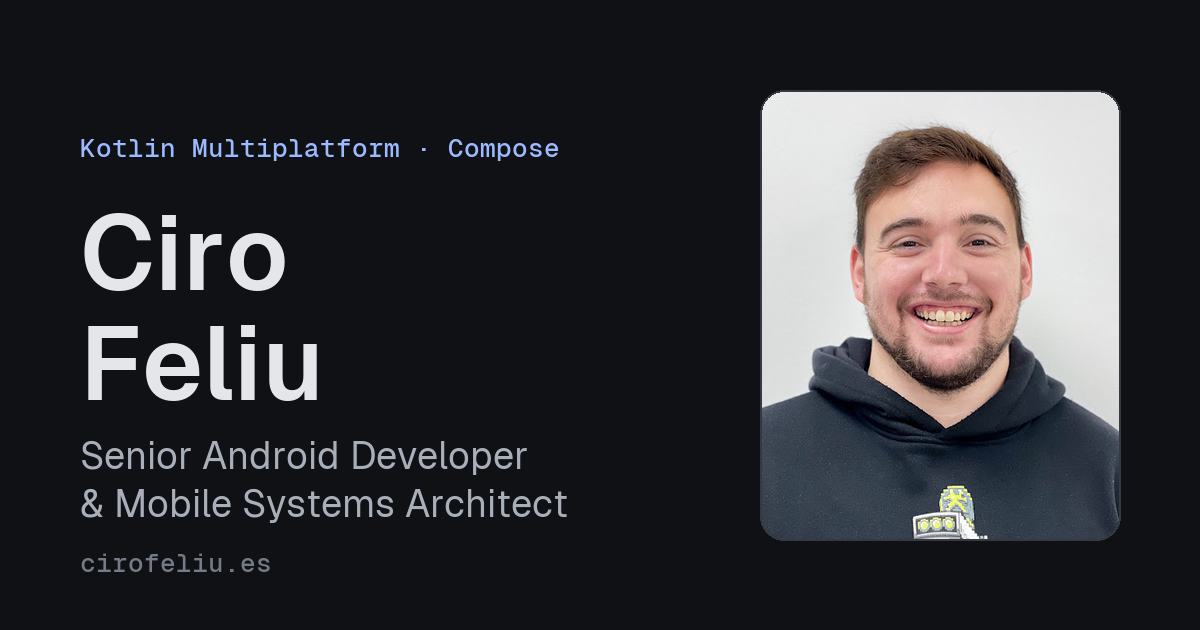
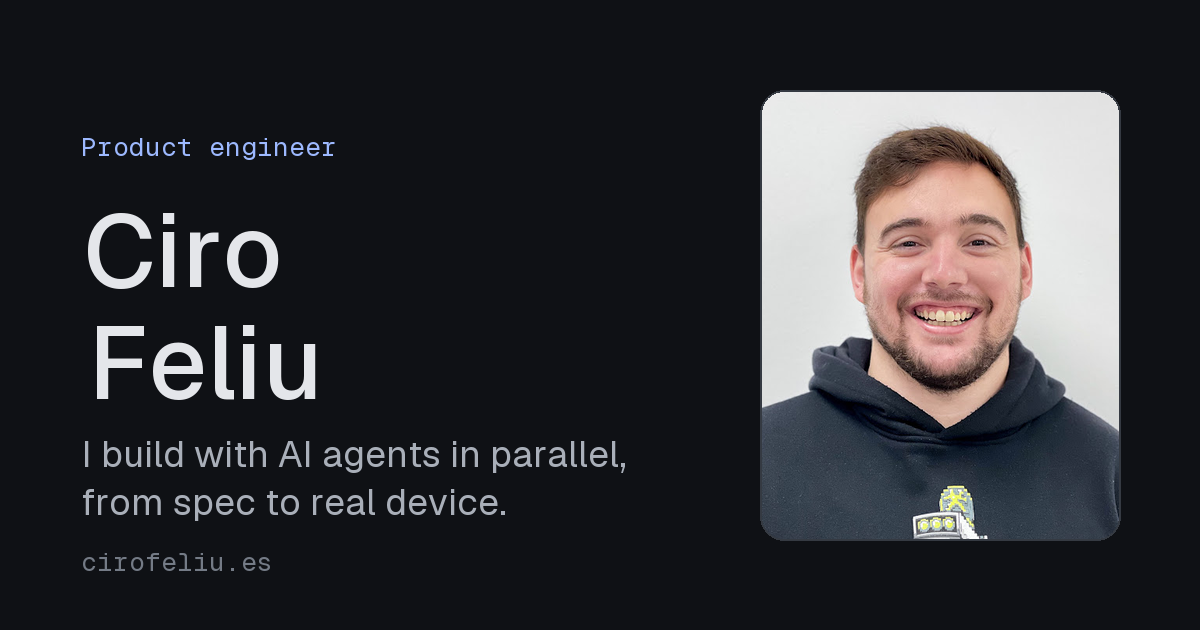
Update public positioning to product engineer building with AI agents in parallel

diff --git a/webApp/src/webMain/resources/index.html b/webApp/src/webMain/resources/index.html
@@ -5,20 +5,20 @@
     <meta name="viewport" content="width=device-width, initial-scale=1.0">
     <meta name="color-scheme" content="light dark">
 
-    <title>Ciro Feliu · Senior Android Developer &amp; Mobile Systems Architect</title>
+    <title>Ciro Feliu · Product engineer</title>
     <meta name="description"
-          content="Portfolio of Ciro Feliu, Senior Android Developer and Mobile Systems Architect working with Kotlin Multiplatform and Compose Multiplatform across Android, web, desktop and iOS.">
+          content="Ciro Feliu, product engineer. I build with AI agents in parallel, from spec to real device, and publish what I measure along the way.">
     <link rel="canonical" href="https://cirofeliu.es/">
 
     <meta property="og:type" content="website">
     <meta property="og:url" content="https://cirofeliu.es/">
-    <meta property="og:title" content="Ciro Feliu · Senior Android Developer &amp; Mobile Systems Architect">
+    <meta property="og:title" content="Ciro Feliu · Product engineer">
     <meta property="og:description"
-          content="Portfolio of Ciro Feliu, Senior Android Developer and Mobile Systems Architect working with Kotlin Multiplatform and Compose Multiplatform.">
+          content="I build with AI agents in parallel, from spec to real device.">
     <meta property="og:image" content="https://cirofeliu.es/og-image.png">
     <meta property="og:image:width" content="1200">
     <meta property="og:image:height" content="630">
-    <meta property="og:image:alt" content="Ciro Feliu, Senior Android Developer and Mobile Systems Architect">
+    <meta property="og:image:alt" content="Ciro Feliu, product engineer. I build with AI agents in parallel, from spec to real device.">
     <meta property="og:locale" content="en_US">
     <meta property="og:locale:alternate" content="es_ES">
     <meta name="twitter:card" content="summary_large_image">
@@ -28,7 +28,7 @@
             "@context": "https://schema.org",
             "@type": "Person",
             "name": "Ciro Feliu",
-            "jobTitle": "Senior Android Developer & Mobile Systems Architect",
+            "jobTitle": "Product engineer",
             "url": "https://cirofeliu.es/",
             "image": "https://cirofeliu.es/og-image.png",
             "sameAs": [
@@ -48,9 +48,11 @@
         <noscript>
             <main class="app-noscript">
                 <h1>Ciro Feliu</h1>
-                <p>Senior Android Developer &amp; Mobile Systems Architect</p>
-                <p>I design and build mobile systems that stay maintainable as they grow, with a focus on
-                    Android architecture, Kotlin Multiplatform, and developer tooling.</p>
+                <p>Product engineer. I build with AI agents in parallel, from spec to real device.</p>
+                <p>I've spent seven years building mobile apps, lately at a hardware company with devices and
+                    firmware next to me. Today I build with AI agents in parallel: specs before code, tests
+                    alongside it and one worktree per change, all run with ShogunAi, a tool I built for exactly
+                    that. On my blog I publish what I measure along the way.</p>
                 <ul>
                     <li><a href="mailto:ricardociro97@gmail.com">ricardociro97@gmail.com</a></li>
                     <li><a href="https://www.linkedin.com/in/ricardo-ciro-a43594190/">LinkedIn</a></li>

diff --git a/shared/src/commonMain/kotlin/app/luxion/nexus/navigation/sections/HeroAboutSection.kt b/shared/src/commonMain/kotlin/app/luxion/nexus/navigation/sections/HeroAboutSection.kt
@@ -61,22 +61,21 @@ object HeroAboutSection {
     internal val content = mapOf(
         Language.English to HeroAboutContent(
             name = "Ciro Feliu",
-            role = "Senior Developer & Mobile Systems Architect",
-            intro = "I design and build mobile systems that stay maintainable as they grow, " +
-                "from Android architecture to Kotlin Multiplatform.",
-            bio = "I design and build mobile systems that stay maintainable as they " +
-                "grow, with a focus on Android architecture, Kotlin Multiplatform, and the tooling " +
-                "that keeps a codebase easy to work in years after it ships.",
+            role = "Product engineer",
+            intro = "I build with AI agents in parallel, from spec to real device.",
+            bio = "I've spent seven years building mobile apps, lately at a hardware company with devices " +
+                "and firmware next to me. Today I build with AI agents in parallel: specs before code, " +
+                "tests alongside it and one worktree per change, all run with ShogunAi, a tool I built " +
+                "for exactly that. On my blog I publish what I measure along the way.",
         ),
         Language.Spanish to HeroAboutContent(
             name = "Ciro Feliu",
-            role = "Desarrollador Senior y Arquitecto de Sistemas Móviles",
-            intro = "Diseño y construyo sistemas móviles que siguen siendo fáciles de mantener al crecer, " +
-                "de la arquitectura Android a Kotlin Multiplatform.",
-            bio = "Diseño y construyo sistemas móviles que se mantienen fáciles de mantener a " +
-                "medida que crecen, centrado en arquitectura Android, Kotlin Multiplatform y las " +
-                "herramientas que hacen que un código siga siendo cómodo de tocar años después de " +
-                "publicarse.",
+            role = "Ingeniero de producto",
+            intro = "Desarrollo con agentes de IA en paralelo, de la spec al dispositivo real.",
+            bio = "Llevo siete años construyendo apps móviles, los últimos en una empresa de hardware, con " +
+                "dispositivos y firmware al lado. Hoy desarrollo con agentes de IA en paralelo: specs antes " +
+                "que código, tests a la par y un worktree por cambio, todo operado con ShogunAi, una " +
+                "herramienta que he construido para eso. En el blog publico lo que mido por el camino.",
         ),
     )
 

diff --git a/shared/src/commonTest/kotlin/app/luxion/nexus/navigation/sections/PositioningCopyTest.kt b/shared/src/commonTest/kotlin/app/luxion/nexus/navigation/sections/PositioningCopyTest.kt
@@ -1,0 +1,55 @@
+package app.luxion.nexus.navigation.sections
+
+import app.luxion.nexus.documentTitle
+import app.luxion.nexus.i18n.Language
+import kotlin.test.Test
+import kotlin.test.assertEquals
+import kotlin.test.assertNotEquals
+import kotlin.test.assertTrue
+
+class PositioningCopyTest {
+
+    private val retiredTitles = listOf("Architect", "Arquitecto", "Senior Developer", "Desarrollador Senior")
+
+    private val freelance = entries.single { it.company == "Freelance" }
+
+    @Test
+    fun heroStatesTheHeadlineInEnglish() {
+        val english = HeroAboutSection.content.getValue(Language.English)
+        assertEquals("Product engineer", english.role)
+        assertEquals("I build with AI agents in parallel, from spec to real device.", english.intro)
+    }
+
+    @Test
+    fun heroStatesTheHeadlineInSpanish() {
+        val spanish = HeroAboutSection.content.getValue(Language.Spanish)
+        assertEquals("Ingeniero de producto", spanish.role)
+        assertEquals("Desarrollo con agentes de IA en paralelo, de la spec al dispositivo real.", spanish.intro)
+    }
+
+    @Test
+    fun documentTitleUsesTheProductEngineerTitle() {
+        assertEquals("Ciro Feliu · Product engineer", documentTitle(Language.English))
+        assertEquals("Ciro Feliu · Ingeniero de producto", documentTitle(Language.Spanish))
+    }
+
+    @Test
+    fun freelanceRoleStaysInEnglishWithTranslatedDescriptions() {
+        val english = freelance.content.getValue(Language.English)
+        val spanish = freelance.content.getValue(Language.Spanish)
+        assertEquals("Contract engineer for AI-first product teams", english.role)
+        assertEquals(english.role, spanish.role)
+        assertNotEquals(english.description, spanish.description)
+    }
+
+    @Test
+    fun noRetiredTitleRemainsInHeroExperienceOrDocumentTitle() {
+        val strings = Language.entries.flatMap { language ->
+            val hero = HeroAboutSection.content.getValue(language)
+            listOf(hero.role, hero.intro, hero.bio, documentTitle(language)) +
+                entries.flatMap { entry -> entry.content.getValue(language).let { listOf(it.role, it.description) } }
+        }
+        val offending = strings.filter { text -> retiredTitles.any { it in text } }
+        assertTrue(offending.isEmpty(), "Retired titles still present: $offending")
+    }
+}

diff --git a/shared/src/commonMain/kotlin/app/luxion/nexus/navigation/sections/ExperienceSection.kt b/shared/src/commonMain/kotlin/app/luxion/nexus/navigation/sections/ExperienceSection.kt
@@ -66,6 +66,8 @@ internal data class ExperienceEntry(
     fun dateRange(language: Language): String = formatDateRange(start, end, language)
 }
 
+private const val FREELANCE_ROLE = "Contract engineer for AI-first product teams"
+
 internal val entries = listOf(
     ExperienceEntry(
         content = mapOf(
@@ -84,14 +86,17 @@ internal val entries = listOf(
     ExperienceEntry(
         content = mapOf(
             Language.English to ExperienceContent(
-                role = "Mobile Systems Architect",
-                description = "I deliver mobile projects for external clients on a freelance basis, " +
-                    "alongside my full-time role.",
+                role = FREELANCE_ROLE,
+                description = "I join product teams that build with AI agents and deliver features end to " +
+                    "end: spec, implementation verified with tests, and deployment. I prefer long-term " +
+                    "relationships with one or two clients over many small projects.",
             ),
             Language.Spanish to ExperienceContent(
-                role = "Arquitecto de Sistemas Móviles",
-                description = "Desarrollo proyectos móviles para clientes externos como freelance, " +
-                    "compaginándolo con mi empleo a tiempo completo.",
+                role = FREELANCE_ROLE,
+                description = "Me integro en equipos de producto que trabajan con agentes de IA y entrego " +
+                    "funcionalidad de principio a fin: spec, implementación verificada con tests y " +
+                    "despliegue. Busco relaciones largas con uno o dos clientes antes que muchos proyectos " +
+                    "pequeños.",
             ),
         ),
         company = "Freelance",

diff --git a/blogGenerator/src/main/kotlin/app/luxion/nexus/blog/BlogPages.kt b/blogGenerator/src/main/kotlin/app/luxion/nexus/blog/BlogPages.kt
@@ -2,7 +2,7 @@ package app.luxion.nexus.blog
 
 const val BLOG_TITLE = "Blog · Ciro Feliu"
 const val BLOG_DESCRIPTION =
-    "Writing by Ciro Feliu on Android, Kotlin Multiplatform, mobile architecture and developer tooling."
+    "Writing by Ciro Feliu on building with AI agents in parallel, from spec to real device."
 
 private const val AUTHOR = "Ciro Feliu"
 

diff --git a/AGENTS.md b/AGENTS.md
@@ -4,7 +4,7 @@ Style and process guidelines for AI agents working in this repository. **This is
 
 ## Project
 
-Nexus is Ciro Feliu's personal portfolio (Senior Android Developer / Mobile Systems Architect), built as a Kotlin Multiplatform + Compose Multiplatform SPA (package `app.luxion.nexus`). All four targets are in scope for v1 — `:webApp` (Kotlin/Wasm only for v1; a JS fallback for browsers without WasmGC is deferred to a later change), `:androidApp`, `:iosApp`, and `:desktopApp` — sharing UI/content/logic from `:shared` so the portfolio behaves consistently everywhere. Deployment is self-hosted on Ciro's own server under `cirofeliu.es` (not GitHub Pages): every push to `master` runs `.github/workflows/deploy.yml`, which tests, builds the Wasm distribution, rsyncs it to the server over a deploy-only SSH key restricted with `rrsync`, purges the Cloudflare zone's cache with a purge-only API token and checks that the live `webApp.js` and its `.wasm` files load. Only content-hashed files (the `.wasm` binaries) are cached long; everything else is served `no-cache`, so a deploy never leaves a stale `webApp.js` pointing at deleted binaries. The server side is Caddy in Docker behind a Cloudflare-proxied zone with an Origin Certificate (Full strict), and UFW only lets Cloudflare's IP ranges reach ports 80/443. The design rationale lives in the archived `automate-webapp-deployment` change; server-side operational details live in Ciro's private server docs, not in this repo.
+Nexus is Ciro Feliu's personal portfolio (product engineer building with AI agents in parallel, from spec to real device), built as a Kotlin Multiplatform + Compose Multiplatform SPA (package `app.luxion.nexus`). All four targets are in scope for v1 — `:webApp` (Kotlin/Wasm only for v1; a JS fallback for browsers without WasmGC is deferred to a later change), `:androidApp`, `:iosApp`, and `:desktopApp` — sharing UI/content/logic from `:shared` so the portfolio behaves consistently everywhere. Deployment is self-hosted on Ciro's own server under `cirofeliu.es` (not GitHub Pages): every push to `master` runs `.github/workflows/deploy.yml`, which tests, builds the Wasm distribution, rsyncs it to the server over a deploy-only SSH key restricted with `rrsync`, purges the Cloudflare zone's cache with a purge-only API token and checks that the live `webApp.js` and its `.wasm` files load. Only content-hashed files (the `.wasm` binaries) are cached long; everything else is served `no-cache`, so a deploy never leaves a stale `webApp.js` pointing at deleted binaries. The server side is Caddy in Docker behind a Cloudflare-proxied zone with an Origin Certificate (Full strict), and UFW only lets Cloudflare's IP ranges reach ports 80/443. The design rationale lives in the archived `automate-webapp-deployment` change; server-side operational details live in Ciro's private server docs, not in this repo.
 
 `:webApp` is the priority target within v1 — it's the primary deliverable (what recruiters/visitors see); `:androidApp`, `:iosApp`, and `:desktopApp` exist to demonstrate multiplatform reach. When work isn't otherwise scoped, prioritize `:webApp` + `:shared`. Design tone is clean/technical/structured/modern.
 

diff --git a/openspec/specs/experience-section/spec.md b/openspec/specs/experience-section/spec.md
@@ -2,7 +2,9 @@
 
 ## Purpose
 Give a visitor a chronological view of Ciro's career progression: a most-recent-first timeline of roles, each with company, title, date range, and a short description. Content is bilingual (English/Spanish), sourced from the shared `Language`-keyed content model.
+
 ## Requirements
+
 ### Requirement: Experience is shown as a chronological timeline
 The Experience/Timeline section SHALL render Ciro's work history as a vertical timeline, ordered most-recent-first, with each entry showing company, role title, and date range.
 
@@ -11,19 +13,23 @@ The Experience/Timeline section SHALL render Ciro's work history as a vertical t
 - **THEN** each role entry is visible with company, title, and date range, in most-recent-first order
 
 ### Requirement: Each entry includes a short description
-Each timeline entry SHALL include a short (1-2 line) description of the role.
+Each timeline entry SHALL include a short description of the role of at most two sentences.
 
 #### Scenario: Entry description is concise
 - **WHEN** a timeline entry is rendered
-- **THEN** its description does not exceed roughly 2 lines of themed body text
+- **THEN** its description has at most two sentences and does not exceed roughly 4 lines of themed body text on a 1280px-wide layout
 
 ### Requirement: Experience content is available in English and Spanish
-The Experience/Timeline section SHALL render each entry's role title and description in the active language (English or Spanish), sourced from the shared `Language`-keyed content, with no hardcoded single-language text.
+The Experience/Timeline section SHALL render each entry's role title and description in the active language (English or Spanish), sourced from the shared `Language`-keyed content, with no hardcoded single-language text. A role title MAY be the same English text in both languages when it is an English job title on purpose; its description SHALL still be translated.
 
 #### Scenario: Active language is Spanish
 - **WHEN** the active language is Spanish
-- **THEN** each timeline entry's role title and description render in Spanish
+- **THEN** each timeline entry's role title and description render in Spanish, except role titles deliberately kept in English
 
 #### Scenario: Active language is English
 - **WHEN** the active language is English
 - **THEN** each timeline entry's role title and description render in English
+
+#### Scenario: Freelance title kept in English
+- **WHEN** the Freelance entry renders in Spanish
+- **THEN** its role title reads "Contract engineer for AI-first product teams" and its description is in Spanish

diff --git a/openspec/changes/archive/2026-10-31-update-positioning/tasks.md b/openspec/changes/archive/2026-10-31-update-positioning/tasks.md
@@ -1,0 +1,22 @@
+# Tasks
+
+## 1. Shared content
+
+- [x] 1.1 In `HeroAboutSection.kt`, set `role` to "Product engineer" / "Ingeniero de producto", `intro` to the second sentence of the headline in each language, and `bio` to the canonical three-sentence bio; verify with `./gradlew :shared:jvmTest` that the hero, CV and copy-style tests pass
+- [x] 1.2 In `ExperienceSection.kt`, set the freelance entry's role to "Contract engineer for AI-first product teams" in both languages and its descriptions to the canonical English and Spanish texts; add a test asserting the freelance role is the same in both languages and the descriptions differ
+- [x] 1.3 Add a test asserting the hero's English and Spanish role and intro equal the canonical headline parts and that no hero, experience or document-title string contains "Architect" or "Arquitecto"
+
+## 2. Web shell
+
+- [x] 2.1 In `index.html`, update `<title>`, meta description, `og:title`, `og:description`, `og:image:alt`, the JSON-LD `jobTitle` and the `<noscript>` role and summary to the new headline and bio
+- [x] 2.2 Regenerate `og-image.png` (1200x630, PNG) with the new headline, keeping layout, fonts and photo; verify its size with `file` and inspect it visually
+
+## 3. Blog and project docs
+
+- [x] 3.1 Update `BLOG_DESCRIPTION` in `BlogPages.kt` so it no longer frames the blog as Android and mobile architecture; verify with `./gradlew :blogGenerator:test`
+- [x] 3.2 Update the project line in `AGENTS.md`, `README.md` and `openspec/config.yaml`
+
+## 4. Validation
+
+- [x] 4.1 Run `./gradlew test` and check no old title remains with `grep -rn "Mobile Systems Architect\|Arquitecto de Sistemas\|Senior Android Developer"` outside `openspec/changes/archive`
+- [x] 4.2 Run the web app and check the hero, the experience entry and the document title in English and Spanish, in light and dark mode, and that the English document title equals the static `<title>` in `index.html`

diff --git a/openspec/specs/hero-about-section/spec.md b/openspec/specs/hero-about-section/spec.md
@@ -6,11 +6,23 @@ Give a visitor a real first impression: Ciro's name, role title, short bio, and 
 ## Requirements
 
 ### Requirement: Hero/About displays identity and role
-The Hero/About section SHALL display Ciro's name, role title, and a short bio, using only `PortfolioTheme` colors and typography.
+The Hero/About section SHALL display Ciro's name, a short role title and an intro, using only `PortfolioTheme` colors and typography. The role title and the intro together SHALL state Ciro's public headline, and the longer bio SHALL stay separate shared content used by the CV.
 
 #### Scenario: Section renders on any target
 - **WHEN** the portfolio shell renders the Hero/About section on any of the four targets
-- **THEN** the name, role title, and bio text are visible using theme-defined typography and colors
+- **THEN** the name, role title, and intro text are visible using theme-defined typography and colors
+
+#### Scenario: Hero states the headline in English
+- **WHEN** the Hero/About section renders in English
+- **THEN** the role title reads "Product engineer" and the intro reads "I build with AI agents in parallel, from spec to real device."
+
+#### Scenario: Hero states the headline in Spanish
+- **WHEN** the Hero/About section renders in Spanish
+- **THEN** the role title reads "Ingeniero de producto" and the intro reads "Desarrollo con agentes de IA en paralelo, de la spec al dispositivo real."
+
+#### Scenario: CV uses the full bio
+- **WHEN** the CV is exported in either language
+- **THEN** its role is the hero's role title and its bio is the three-sentence bio in that language
 
 ### Requirement: Hero/About displays an avatar placeholder
 The Hero/About section SHALL display an avatar (initials-based placeholder or photo) near the identity content.

diff --git a/openspec/changes/archive/2026-10-31-update-positioning/specs/hero-about-section/spec.md b/openspec/changes/archive/2026-10-31-update-positioning/specs/hero-about-section/spec.md
@@ -1,15 +1,19 @@
 ## MODIFIED Requirements
 
 ### Requirement: Hero/About displays identity and role
-The Hero/About section SHALL display Ciro's name, a short role title and an intro, using only `PortfolioTheme` colors and typography. The role title and the intro together SHALL state Ciro's public headline: the role title is its title part ("Product engineer" / "Ingeniero de producto") and the intro is its statement part ("I build with AI agents in parallel, from spec to real device." / "Desarrollo con agentes de IA en paralelo, de la spec al dispositivo real."). The longer bio is kept as separate shared content for the CV.
+The Hero/About section SHALL display Ciro's name, a short role title and an intro, using only `PortfolioTheme` colors and typography. The role title and the intro together SHALL state Ciro's public headline, and the longer bio SHALL stay separate shared content used by the CV.
 
 #### Scenario: Section renders on any target
 - **WHEN** the portfolio shell renders the Hero/About section on any of the four targets
 - **THEN** the name, role title, and intro text are visible using theme-defined typography and colors
 
-#### Scenario: Hero states the headline
+#### Scenario: Hero states the headline in English
 - **WHEN** the Hero/About section renders in English
 - **THEN** the role title reads "Product engineer" and the intro reads "I build with AI agents in parallel, from spec to real device."
+
+#### Scenario: Hero states the headline in Spanish
+- **WHEN** the Hero/About section renders in Spanish
+- **THEN** the role title reads "Ingeniero de producto" and the intro reads "Desarrollo con agentes de IA en paralelo, de la spec al dispositivo real."
 
 #### Scenario: CV uses the full bio
 - **WHEN** the CV is exported in either language

diff --git a/openspec/specs/web-seo-metadata/spec.md b/openspec/specs/web-seo-metadata/spec.md
@@ -53,3 +53,14 @@ The HTML loading screen SHALL use the same background and foreground colors as t
 #### Scenario: Dark-mode visitor loads the site
 - **WHEN** a visitor with a dark system preference loads the portfolio
 - **THEN** the loading screen and the first app frame share the same dark background, with no white flash in between
+
+### Requirement: Web shell states the current headline
+The system SHALL use Ciro's current public headline (title "Product engineer", statement "I build with AI agents in parallel, from spec to real device.") in `index.html`'s `<title>`, meta description, `og:title`, `og:description`, `og:image:alt`, the JSON-LD `jobTitle`, the `<noscript>` fallback and the text drawn in `og-image.png`, and SHALL NOT present him with a previous title.
+
+#### Scenario: Link preview after the positioning update
+- **WHEN** a link to `https://cirofeliu.es/` is shared and the crawler reads its metadata and preview image
+- **THEN** the title, description and image show "Product engineer" and the headline statement, and none of them says "Mobile Systems Architect"
+
+#### Scenario: Static and dynamic titles agree
+- **WHEN** the web app finishes loading in English
+- **THEN** the document title set by the app equals the static `<title>` in `index.html`

diff --git a/openspec/changes/archive/2026-10-31-update-positioning/design.md b/openspec/changes/archive/2026-10-31-update-positioning/design.md
@@ -16,6 +16,10 @@ Alternative considered: the whole headline as `role`. Rejected because the role 
 
 Ciro chose "Contract engineer for AI-first product teams" as the title in both languages, because it is the title clients search for. The experience spec required every role title to render in the active language, so the requirement now allows a title kept in English on purpose; the description is still translated.
 
+### Freelance description length
+
+The canonical freelance description has two sentences and wraps to about four lines at 1280px, above the previous "roughly 2 lines" guideline. The wording is fixed by Ciro, so the requirement now caps descriptions at two sentences instead.
+
 ### The preview image is regenerated, not edited
 
 `og-image.png` has the old title baked into the pixels. It is redrawn at 1200x630 with the same layout, the Geist fonts already shipped in `composeResources/font` and the same hero photo, replacing only the kicker and the title lines. The script that draws it is a throwaway in the session's scratchpad, not committed, in line with how the current image was produced.
